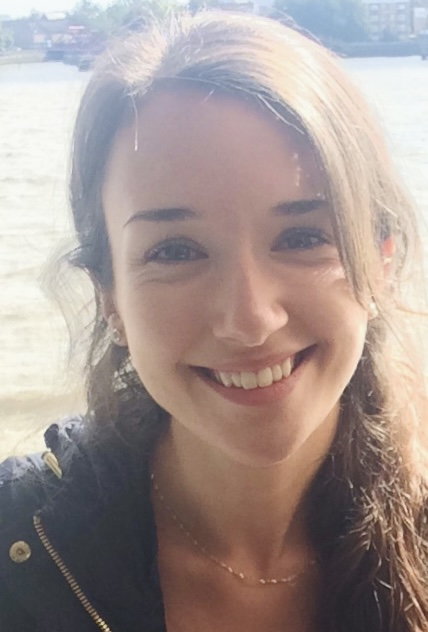
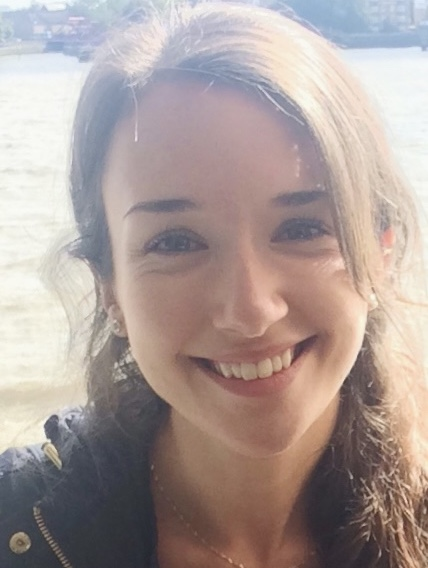
photo position

diff --git a/src/Components/AboutMe/AMPhoto.js b/src/Components/AboutMe/AMPhoto.js
@@ -2,16 +2,16 @@ import React from "react";
 import styled from "@emotion/styled/macro";
 
 const Photo = styled.img`
-  border-radius: 0%;
+  border-radius: 15%;
   border-color: black;
   border-width: 0px;
   border-style: solid;
   object-fit: cover;
   position: absolute;
-  left: 5%;
-  top: 15%;
-  width: 75%;
-  height: 100%;
+  left: 15%;
+  top: 10%;
+  width: 60%;
+  height: 80%;
   max-width: 600px;
   max-height: 800px;
 `;
@@ -31,13 +31,13 @@ const Container = styled.div`
 
 const AMPhoto = ({mobile}) => {
   var mobileStyle = {
-    width: "80%",
+    width: "70%",
     left: "0%",
-    marginBottom: "10%",
+    marginBottom: "20%",
   }
   var mobilePhoto = {
-    width: "80%",
-    height: "80%",
+    width: "75%",
+    height: "100%",
     left: "10%",
   }
   var imageSource = `./img/profile.jpeg`;
